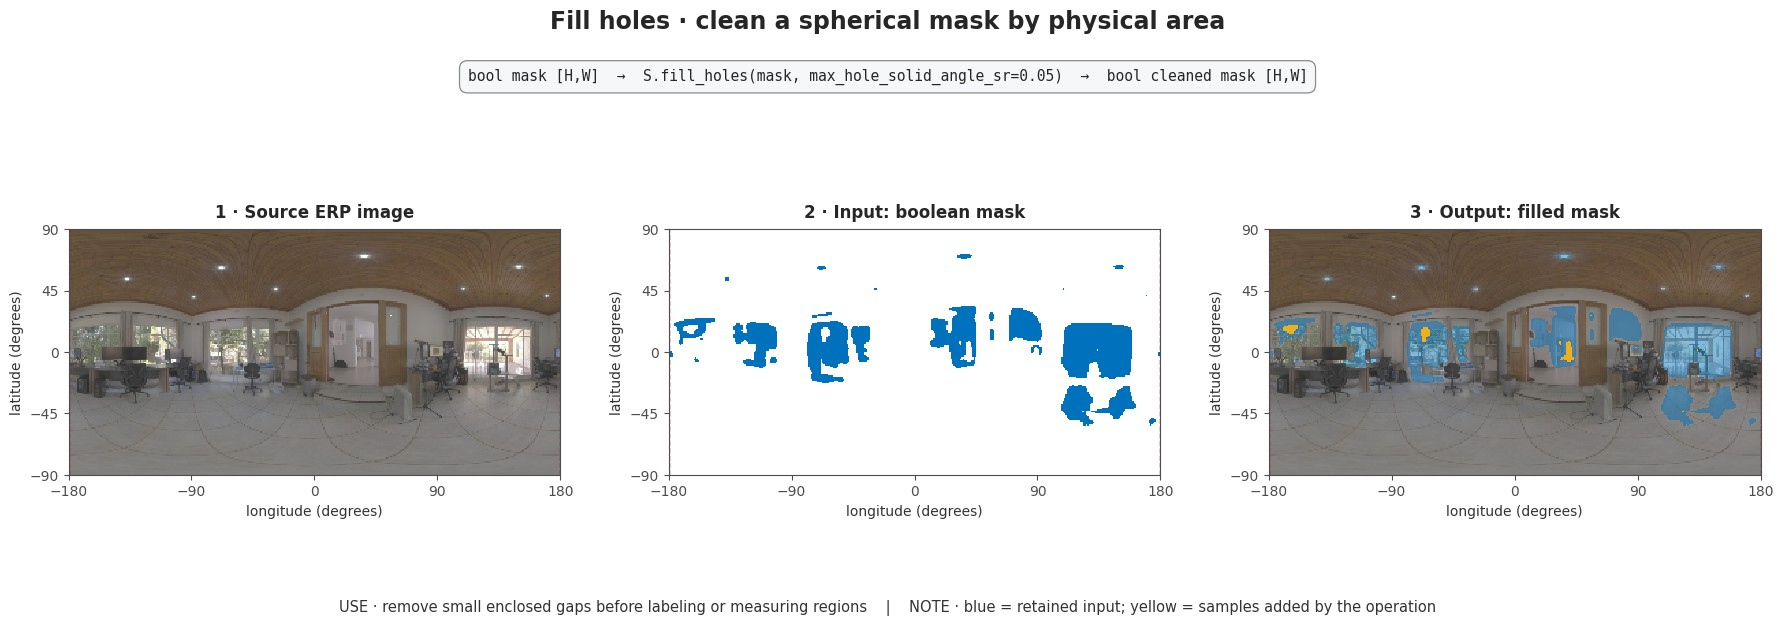
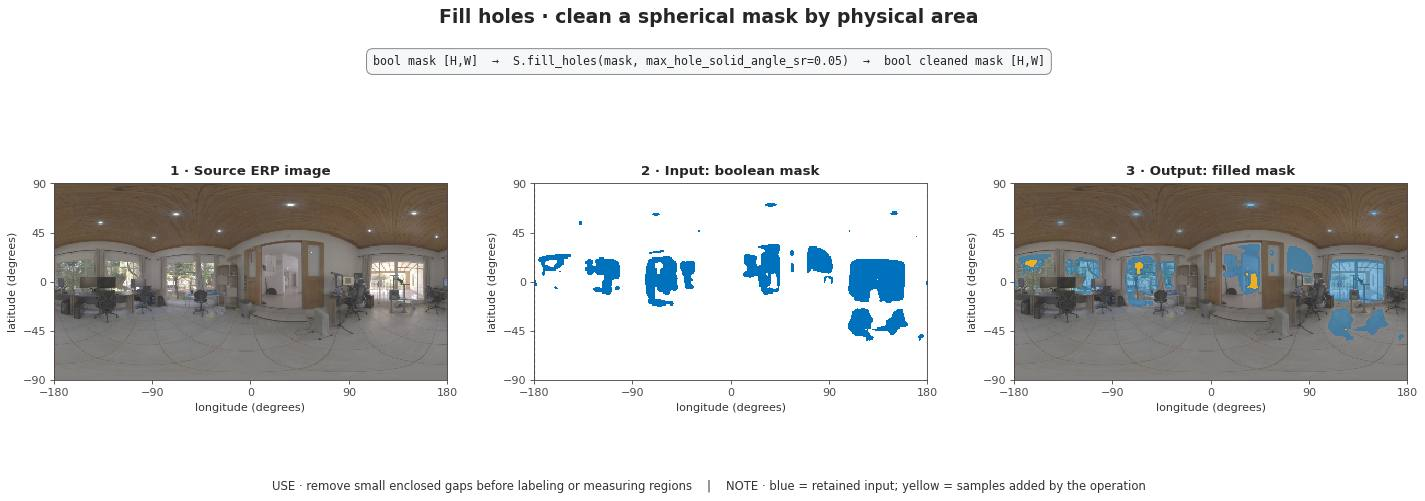
docs: fit region figures within sdist budget

diff --git a/tests/test_documentation_examples.py b/tests/test_documentation_examples.py
@@ -623,28 +623,28 @@ def test_real_image_region_analysis_evidence_is_pinned_and_not_ground_truth() ->
     )
     expected = {
         "region-analysis-real-boundaries.jpg": (
-            (1783, 625),
[1 lines of base64/hex data omitted]
+            (1425, 501),
[1 lines of base64/hex data omitted]
         ),
         "region-analysis-real-connected-components.jpg": (
-            (1783, 626),
[1 lines of base64/hex data omitted]
+            (1425, 501),
[1 lines of base64/hex data omitted]
         ),
         "region-analysis-real-fill-holes.jpg": (
-            (1783, 626),
[1 lines of base64/hex data omitted]
+            (1425, 501),
[1 lines of base64/hex data omitted]
         ),
         "region-analysis-real-geodesic-distance.jpg": (
-            (1766, 625),
[1 lines of base64/hex data omitted]
+            (1410, 501),
[1 lines of base64/hex data omitted]
         ),
         "region-analysis-real-measurements.jpg": (
-            (1770, 653),
[1 lines of base64/hex data omitted]
+            (1415, 523),
[1 lines of base64/hex data omitted]
         ),
         "region-analysis-real-watershed.jpg": (
-            (1783, 626),
[1 lines of base64/hex data omitted]
+            (1425, 501),
[1 lines of base64/hex data omitted]
         ),
     }
 

diff --git a/scripts/audit_release_artifacts.py b/scripts/audit_release_artifacts.py
@@ -95,22 +95,22 @@ APPROVED_DOCUMENTATION_MEDIA_SHA256 = {
[1 lines of base64/hex data omitted]
     ),
     "docs/_static/tutorials/region-analysis-real-boundaries.jpg": (
[2 lines of base64/hex data omitted]
     ),
     "docs/_static/tutorials/region-analysis-real-connected-components.jpg": (
[2 lines of base64/hex data omitted]
     ),
     "docs/_static/tutorials/region-analysis-real-fill-holes.jpg": (
[2 lines of base64/hex data omitted]
     ),
     "docs/_static/tutorials/region-analysis-real-geodesic-distance.jpg": (
[2 lines of base64/hex data omitted]
     ),
     "docs/_static/tutorials/region-analysis-real-measurements.jpg": (
[2 lines of base64/hex data omitted]
     ),
     "docs/_static/tutorials/region-analysis-real-watershed.jpg": (
[2 lines of base64/hex data omitted]
     ),
     "docs/_static/tutorials/spherical-stereo-synthetic.png": (
[1 lines of base64/hex data omitted]

diff --git a/scripts/generate_region_analysis_real_figures.py b/scripts/generate_region_analysis_real_figures.py
@@ -259,7 +259,7 @@ def _save_jpeg(figure: Any, path: Path) -> tuple[int, int]:
     figure.savefig(
         buffer,
         format="png",
-        dpi=100,
+        dpi=80,
         bbox_inches="tight",
         facecolor="white",
     )
@@ -270,7 +270,7 @@ def _save_jpeg(figure: Any, path: Path) -> tuple[int, int]:
         image.save(
             path,
             format="JPEG",
-            quality=90,
+            quality=72,
             optimize=True,
             progressive=True,
             exif=b"",
